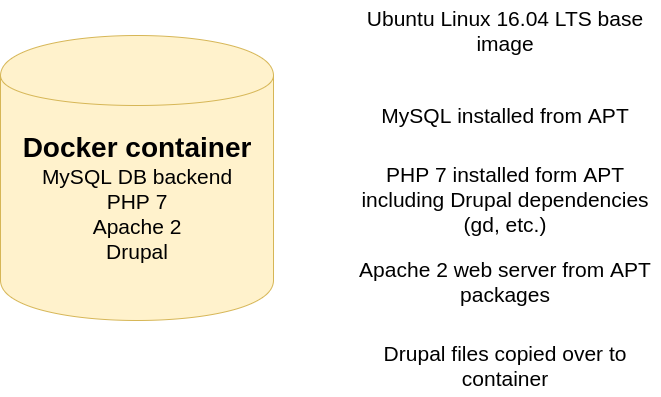
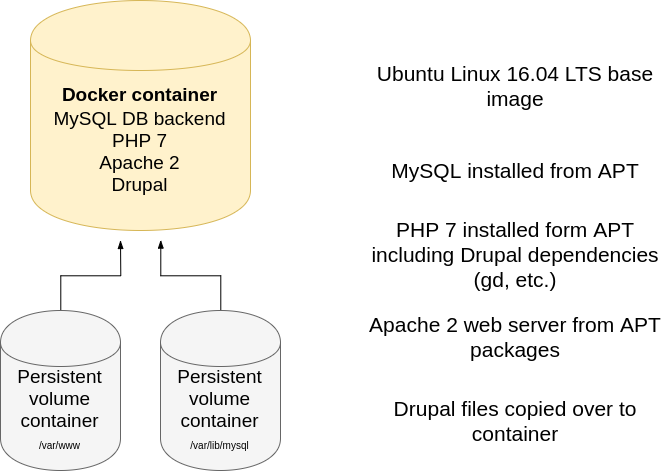
readme and figures improvements

diff --git a/README.md b/README.md
@@ -96,6 +96,19 @@ Drupal can be provisioned in start.sh
 ```
 Tweak [singledocker/start.sh](singledocker/start.sh) for your deployment configuration 
 
+#### Persistent storage for the single docker container
+
+First create docker volumes
+
+```
+docker volume create drupal-files
+docker volume create drupal-mysql
+```
+Run the drupal container with the following command to take advantage of persistent storage 
+```
+docker run --name=drupal-single -v drupal-files:/var/www/application -v drupal-mysql:/var/lib/mysql -it -p 9988:80 -p 13360:3360 drupal-single 
+```
+
 ### Docker compose implementation for the whole stack
 
 TODO: separate components into docker images and create a whole stack instance using "docker-compose up"
@@ -149,7 +162,7 @@ A Ruby REST web application implemented using Sinatra to test a Drupal site for 
 
 A site is considered live when:
 - HTTP GET request returns status code 200 OK
-- We can match some content to a pre-defined pattern
+- Retrieved content matches a pre-defined pattern
 
 ### Part 2: Bringing the site up/down on AWS
 
@@ -215,6 +228,7 @@ TODO: return codes, for every case
 - [ZopNow LAMP on docker](https://hub.docker.com/r/zopnow/lamp-stack/)
 - [Drupal in dockerhub](https://hub.docker.com/_/drupal/)
 - [DrupalVM: if you want to do the whole project in one shot](https://www.drupalvm.com/)
+- [Docker data container volumes](https://medium.com/@rasheedamir/docker-good-bye-data-only-container-pattern-a28f90493a5a)
 
 
 
